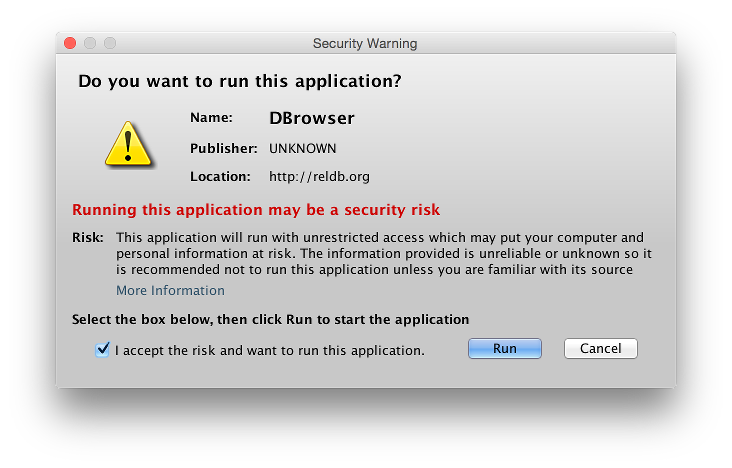
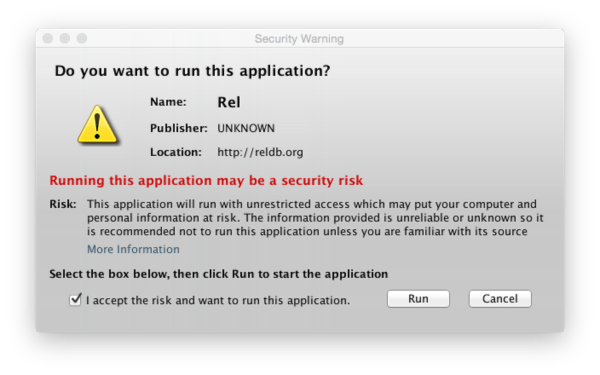
Update after jar renaming.

diff --git a/DBrowser/org/reldb/rel/dbrowser/monitor/Monitor.java b/DBrowser/org/reldb/rel/dbrowser/monitor/Monitor.java
@@ -46,8 +46,8 @@ public class Monitor extends javax.swing.JFrame {
     private JTextArea outputDisplay;
     private JScrollPane outputScroller;
     private JTextField javaCommandBox = new JTextField();
-    private JButton btnRunDBrowser = new JButton("Run DBrowser");
-    private JButton btnKillDBrowser = new JButton("Kill DBrowser");
+    private JButton btnRunDBrowser = new JButton("Run Rel");
+    private JButton btnKillDBrowser = new JButton("Kill Rel");
     private JCheckBox checkCloseOnDBrowserExit = new JCheckBox();
     private Process procDBrowser; 
     private JFileChooser jFileChooserSave = new JFileChooser();
@@ -57,7 +57,7 @@ public class Monitor extends javax.swing.JFrame {
     	setName("DBrowserMonitor");
     	Splash.showSplash(this);
     	Splash.resetProgressBar(4);
-    	Splash.setProgressBar("Loading DBrowser...");
+    	Splash.setProgressBar("Loading Rel...");
         initComponents();
         Splash.dismissSplash();
         Preferences.getInstance().obtainMainWindowPositionAndState(this, 0, 0, 384, 240);
@@ -149,10 +149,10 @@ public class Monitor extends javax.swing.JFrame {
      */
     private void initComponents() {
         setDefaultCloseOperation(javax.swing.WindowConstants.DO_NOTHING_ON_CLOSE);
-        setTitle("Rel - DBrowser Monitor");
+        setTitle("Rel - Rel Monitor");
         addWindowListener(new java.awt.event.WindowAdapter() {
             public void windowClosing(java.awt.event.WindowEvent evt) {
-                if (btnKillDBrowser.isEnabled() && JOptionPane.showConfirmDialog(Monitor.this, "DBrowser is running.  Are you sure you wish to close the monitor?") != JOptionPane.YES_OPTION)
+                if (btnKillDBrowser.isEnabled() && JOptionPane.showConfirmDialog(Monitor.this, "Rel is running.  Are you sure you wish to close the monitor?") != JOptionPane.YES_OPTION)
 					return;
                 shutdown();
             }
@@ -240,7 +240,7 @@ public class Monitor extends javax.swing.JFrame {
         toolBar.add(btnSaveLog);        
         
         btnRunDBrowser.setFont(new Font("Dialog", 0, 10));
-        btnRunDBrowser.setToolTipText("Start up DBrowser.");
+        btnRunDBrowser.setToolTipText("Start up Rel.");
         btnRunDBrowser.addActionListener(new ActionListener() {
 			public void actionPerformed(ActionEvent e) {
 				goAgain();
@@ -250,12 +250,12 @@ public class Monitor extends javax.swing.JFrame {
         toolBar.add(btnRunDBrowser);
         
         btnKillDBrowser.setFont(new Font("Dialog", 0, 10));
-        btnKillDBrowser.setToolTipText("Forcibly terminate DBrowser.");
+        btnKillDBrowser.setToolTipText("Forcibly terminate Rel.");
         btnKillDBrowser.addActionListener(new ActionListener() {
 			public void actionPerformed(ActionEvent e) {
-				if (JOptionPane.showConfirmDialog(Monitor.this, "Are you sure you wish to terminate DBrowser?") == JOptionPane.YES_OPTION) {
+				if (JOptionPane.showConfirmDialog(Monitor.this, "Are you sure you wish to terminate Rel?") == JOptionPane.YES_OPTION) {
 					procDBrowser.destroy();
-					log("DBrowser will be forcibly terminated.  (Please avoid doing this, if possible.)\n");
+					log("Rel will be forcibly terminated.  (Please avoid doing this, if possible.)\n");
 				}	
 			}
         });
@@ -266,8 +266,8 @@ public class Monitor extends javax.swing.JFrame {
         
         checkCloseOnDBrowserExit.setSelected(true);
         checkCloseOnDBrowserExit.setFont(new Font("Dialog", 0, 10));
-        checkCloseOnDBrowserExit.setText("Close monitor when DBrowser exits normally.");
-        checkCloseOnDBrowserExit.setToolTipText("Un-check to make the monitor remain active when DBrowser shuts down normally.");
+        checkCloseOnDBrowserExit.setText("Close monitor when Rel exits normally.");
+        checkCloseOnDBrowserExit.setToolTipText("Un-check to make the monitor remain active when Rel shuts down normally.");
         actionPanel.add(checkCloseOnDBrowserExit);
         
         getContentPane().add(actionPanel, BorderLayout.NORTH);
@@ -298,7 +298,7 @@ public class Monitor extends javax.swing.JFrame {
     
     private void goAgain() {
     	outputDisplay.setText("");
-       	run(javaCommandBox.getText() + " -jar DBrowser.jar -nomonitor ", lastArgs);
+       	run(javaCommandBox.getText() + " -jar Rel.jar -nomonitor ", lastArgs);
     }
     
     private void go(String args[]) {

diff --git a/DBrowser/org/reldb/rel/dbrowser/ui/Browser.java b/DBrowser/org/reldb/rel/dbrowser/ui/Browser.java
@@ -55,7 +55,7 @@ public class Browser extends JFrame {
     	setName("DBrowserMain");
     	Splash.showSplash(this);
     	Splash.resetProgressBar(4);
-    	Splash.setProgressBar("Loading DBrowser...");
+    	Splash.setProgressBar("Loading Rel...");
     	Splash.setProgressBar("Initialising...");
         initComponents();
     	Splash.setProgressBar("Setting up menu...");
@@ -169,7 +169,7 @@ public class Browser extends JFrame {
         jMenuBarMain.add(HelpMenu);
         
         setDefaultCloseOperation(WindowConstants.EXIT_ON_CLOSE);
-        setTitle("Rel - DBrowser");
+        setTitle("Rel");
         addWindowListener(new WindowAdapter() {
             public void windowClosing(WindowEvent evt) {
             	handleClosing();
@@ -384,7 +384,7 @@ public class Browser extends JFrame {
     }
         
 	private static void usage() {
-		System.out.println("Usage: DBrowser [-nomonitor] [-f[<databaseDir>]]");
+		System.out.println("Usage: Rel [-nomonitor] [-f[<databaseDir>]]");
 		System.out.println(" -nomonitor      -- do not open monitor window");
 		System.out.println(" -f<databaseDir> -- open specified local database directory");
 		System.out.println(" -f              -- do not open a local database");

diff --git a/DBrowser/org/reldb/rel/dbrowser/monitor/BrowserLog.java b/DBrowser/org/reldb/rel/dbrowser/monitor/BrowserLog.java
@@ -44,7 +44,7 @@ public class BrowserLog extends javax.swing.JFrame {
     	setName("DBrowserLog");
     	Splash.showSplash(this);
     	Splash.resetProgressBar(4);
-    	Splash.setProgressBar("Loading DBrowser...");
+    	Splash.setProgressBar("Loading Rel...");
         initComponents();
         Splash.dismissSplash();
         Preferences.getInstance().obtainMainWindowPositionAndState(this, 0, 0, 384, 240);
@@ -87,7 +87,7 @@ public class BrowserLog extends javax.swing.JFrame {
      */
     private void initComponents() {
         setDefaultCloseOperation(javax.swing.WindowConstants.DO_NOTHING_ON_CLOSE);
-        setTitle("Rel - DBrowser Log");
+        setTitle("Rel - Rel Log");
         addWindowListener(new java.awt.event.WindowAdapter() {
             public void windowClosing(java.awt.event.WindowEvent evt) {
                 Preferences.getInstance().preserveMainWindowPositionAndState(BrowserLog.this);

diff --git a/DBrowser/RelWithoutMonitor.java b/DBrowser/RelWithoutMonitor.java
@@ -1,0 +1,8 @@
+import org.reldb.rel.dbrowser.monitor.BrowserLog;
+
+/** Alternative startup without execution monitor.  Useful when developing and debugging Rel itself. */
+public class RelWithoutMonitor {	
+	public static void main(String args[]) {
+			BrowserLog.main(args);
+	}
+}

diff --git a/DBrowser/Rel.java b/DBrowser/Rel.java
@@ -1,7 +1,7 @@
 import org.reldb.rel.dbrowser.monitor.BrowserLog;
 import org.reldb.rel.dbrowser.monitor.Monitor;
 
-public class DBrowser {
+public class Rel {
 	
 	public static void main(String args[]) {
 		if (args.length > 0 && args[0].equals("-nomonitor")) {

diff --git a/DBrowser/org/reldb/rel/dbrowser/version/Version.java b/DBrowser/org/reldb/rel/dbrowser/version/Version.java
@@ -2,7 +2,7 @@ package org.reldb.rel.dbrowser.version;
 
 public class Version {
 	public static String getVersion() {
-		return "DBrowser 2.17";
+		return "User interface version 2.17";
 	}
 
 	public static String getCopyright() {
